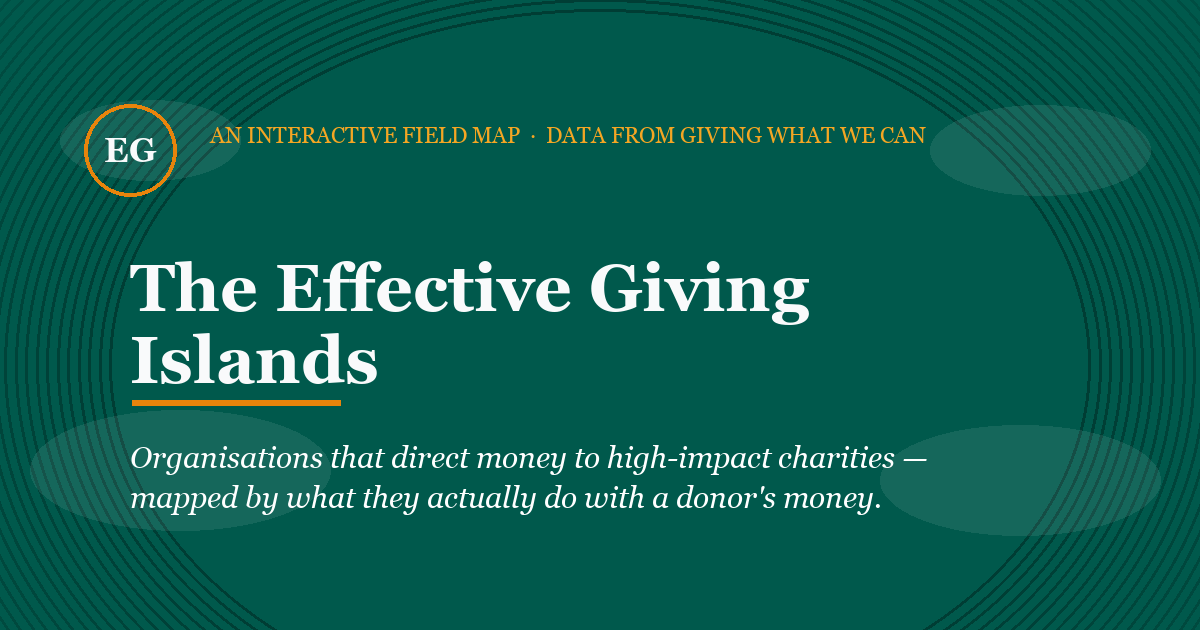
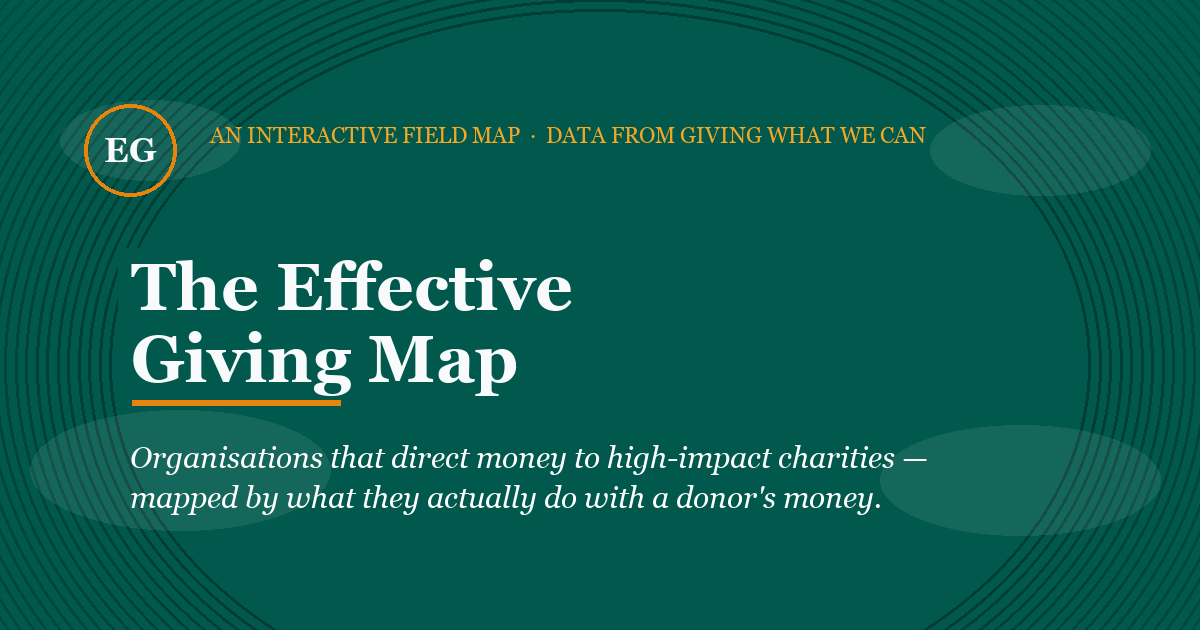
Rename to The Effective Giving Map; De Geefrevolutie; drop dead summaries
Rename the site, README, comments and social preview image from "The
Effective Giving Islands" to "The Effective Giving Map" and remove the
"v1 · Islands" tag. Rename Tien Procent Club to De Geefrevolutie, its
current public brand (tienprocent.club redirects to geefrevolutie.nl),
with the updated URL. Delete the unused Momentum and Afterfund summaries.
Show organisation counts in roman, not italic.

Changed region(s): [[0.0925, 0.3921, 0.6783, 0.6333]]

diff --git a/eg_blurbs.js b/eg_blurbs.js
@@ -49,7 +49,6 @@ const BLURBS={
 "Manifund":{fn:"charitable project-funding platform",blurb:"An open charitable funding platform and US public charity connecting high-impact project founders with donors. It runs open fundraising (a Kickstarter for nonprofits), regranting through domain-expert regrantors, and impact-certificate markets, moving grants in days. It emphasises transparency and backs speculative work in areas like AI safety and effective altruism."},
 "Maximum Impact":{fn:"effective-giving platform (Israel)",blurb:"An effective-giving initiative of Effective Altruism Israel helping Israeli donors direct money where it does the most good. It publishes cost-effectiveness research, recommends standout charities, and lets donors give through the JGive platform, passing contributions in full without commission. It operates under a registered Israeli nonprofit and offers tax-deductible giving."},
 "Mieux Donner":{fn:"effective-giving org (France)",blurb:"A French nonprofit association guiding individual and corporate donors toward high-impact charities backed by rigorous evidence. It takes no commission, relies on evaluators like GiveWell, Giving Green, and the EA Animal Welfare Fund, recommends cost-effective charities across global health, animal welfare, and climate, and promotes the lifetime 10% Pledge."},
-"Momentum":{fn:"nonprofit fundraising AI assistant",blurb:"Now redirects to Virtuous's Momentum product: an AI-powered fundraising assistant for nonprofit gift officers rather than a consumer donation app. It connects to a fundraiser's email and CRM, drafts personalised donor outreach, prioritises daily tasks, and auto-logs interactions. Nothing sends automatically; fundraisers review each message first."},
 "Navigation Fund":{fn:"high-risk philanthropic grantmaker",blurb:"A philanthropic grantmaker advancing bold solutions to urgent, underfunded problems, granting over $60M annually. Guided by practitioners, it backs high-risk, high-reward work across climate change, farm-animal welfare, criminal-justice reform, and open science. Beyond direct grants it uses regranting, advising, donor collaborations, and pooled funds to deploy capital quickly."},
 "One for the World":{fn:"1% Pledge nonprofit",blurb:"A US and UK nonprofit focused on ending preventable child death through effective giving. It asks donors — especially students and young professionals reached via university chapters — to take the 1% Pledge and donate one percent of income, channelling funds to a vetted portfolio delivering bednets, vaccines, nutrition, and clean water."},
 "Power for Democracies":{fn:"democracy-protection donor advisory",blurb:"A German non-profit research organisation and donor advisor that identifies highly effective civil-society initiatives protecting liberal democracy worldwide. It publishes a portfolio of high-impact giving opportunities and builds networks that channel donors' money toward the interventions it judges most cost-effective, rather than grantmaking directly."},
@@ -62,11 +61,10 @@ const BLURBS={
 "Serica":{fn:"philanthropic advisory (UHNW)",blurb:"A philanthropic advisory firm (Serica Advisory) with offices in Hong Kong, London, and Abuja, serving foundations and ultra-high-net-worth families by invitation. It specialises in Asian philanthropy alongside African health, gender, and education work, guiding donors across the full giving journey and connecting global capital with locally-led leadership."},
 "Survival and Flourishing Fund":{fn:"longtermist regranting fund",blurb:"A 'virtual fund' that organises and evaluates grant applications rather than holding an endowment, directing donors' money toward organisations working on humanity's long-term survival and flourishing. Funded largely by Jaan Tallinn, it uses a recurring algorithmic 'S-process' plus speculation grants to route roughly $150M since 2019 into AI safety, biosecurity, and x-risk work."},
 "The Life You Can Save":{fn:"charity evaluator & donor platform",blurb:"Founded in 2013 by philosopher Peter Singer, a nonprofit charity evaluator that researches and vets organisations fighting global poverty. It serves donors from beginners to experienced philanthropists, publishing ~two dozen recommended charities alongside themed cause funds and giving tools, channelling contributions to groups such as the Against Malaria Foundation and GiveDirectly."},
-"Tien Procent Club":{fn:"effective-giving community (Netherlands)",blurb:"The Ten Percent Club, a Dutch nonprofit promoting effective giving, encouraging people to donate a meaningful share of their income where it makes the greatest measurable difference. It runs the public-facing 'De Geefrevolutie' initiative, organising in-person community events across the Netherlands so donors can learn to give better together."},
+"De Geefrevolutie":{fn:"effective-giving community (Netherlands)",blurb:"A Dutch effective-giving movement ('The Giving Revolution') run by the nonprofit Tien Procent Club (Ten Percent Club). It encourages people to donate a meaningful share of their income where it makes the greatest measurable difference, organising in-person community events across the Netherlands so donors can learn to give better together."},
 "Ultra Philanthropy":{fn:"effective philanthropy advisory",blurb:"A philanthropic advisory firm serving major donors, family offices, and foundations, aiming to ensure the largest givers achieve the largest impact. Using an evidence-based, investment-style method and a proprietary 'UP Matrix' scoring effectiveness, scalability, evidence, and room for funding, it helps clients build data-driven giving portfolios."},
 "Więcej Dobra":{fn:"effective-giving platform (Poland)",blurb:"A Polish charitable foundation ('More Good') promoting evidence-based giving, letting Polish donors give online to charities vetted by evaluators such as GiveWell, GWWC, and ACE across global health, animal welfare, and climate. It covers payment fees so 100% of donations pass through, forwarding pooled funds to selected charities twice a year."},
 "Ziedo Efektīvi":{fn:"effective-giving platform (Latvia)",blurb:"A Latvian donation platform ('Donate Effectively') run by EA Latvia, helping local donors give to highly effective international charities while claiming Latvian income-tax refunds. It charges no commission, and recommends vetted organisations across human welfare, animal welfare, and catastrophic risks using research from GWWC and Coefficient Giving, processed under a GWWC agreement."},
-"Afterfund":{fn:"nonprofit endowment income platform",blurb:"A fundraising-technology platform helping nonprofits build endowments and generate continuous, recurring income rather than relying on one-off gifts. It lets organisations invest donated capital so the principal produces ongoing returns, and offers donation fee recovery. It supplies funding infrastructure to nonprofits rather than recommending or evaluating specific high-impact charities."},
 "Alpha Epsilon":{fn:"impact-focused regranting funder",blurb:"A grantmaking organisation aiming for the highest possible charitable impact by channelling money through specialised, expert-led external funds rather than giving directly. Each partner fund optimises for a specific cause and is led by field experts. It positions itself as a funder that allocates capital to the best problem-solvers via cause-specific charitable funds."},
 "Animal Advocacy Careers":{fn:"effective animal-advocacy careers",blurb:"A nonprofit helping talented people find high-impact jobs in the effective animal advocacy movement, and helping organisations recruit mission-aligned talent. It offers a job board, one-to-one career advising, an online course, and community resources, focusing on neglected farmed and wild-animal welfare, and also promotes effective giving through a donation pledge."},
 "Consultants for Impact":{fn:"consultant career-impact network",blurb:"A nonprofit (fiscally sponsored by Rethink Priorities) helping management consultants channel their skills toward pressing global problems. Serving current and former consultants from firms like McKinsey, BCG, and Bain, it offers free career advising, a high-impact job board, workplace groups, and effective-giving guidance across global health, biosecurity, AI safety, and animal welfare."},

diff --git a/index.html b/index.html
@@ -3,16 +3,16 @@
 <head>
 <meta charset="UTF-8">
 <meta name="viewport" content="width=device-width, initial-scale=1.0">
-<title>The Effective Giving Islands</title>
+<title>The Effective Giving Map</title>
 <meta name="description" content="An interactive map of 85 organisations that direct money to high-impact charities, grouped by what they actually do with a donor's money.">
 <link rel="icon" type="image/png" href="favicon.png">
 <meta property="og:type" content="website">
-<meta property="og:title" content="The Effective Giving Islands">
+<meta property="og:title" content="The Effective Giving Map">
 <meta property="og:description" content="Organisations that direct money to high-impact charities — mapped by what they actually do with a donor's money.">
 <meta property="og:image" content="https://experimenzo.github.io/effective-giving-map/og-image.png">
 <meta property="og:url" content="https://experimenzo.github.io/effective-giving-map/">
 <meta name="twitter:card" content="summary_large_image">
-<meta name="twitter:title" content="The Effective Giving Islands">
+<meta name="twitter:title" content="The Effective Giving Map">
 <meta name="twitter:description" content="Organisations that direct money to high-impact charities — mapped by what they actually do with a donor's money.">
 <meta name="twitter:image" content="https://experimenzo.github.io/effective-giving-map/og-image.png">
 <link rel="preconnect" href="https://fonts.googleapis.com"><link rel="preconnect" href="https://fonts.gstatic.com" crossorigin>
@@ -36,7 +36,6 @@ h1,h2,h3{font-family:'Cormorant Garamond',Georgia,serif}
 .seal{width:44px;height:44px;border:2px solid var(--gold);border-radius:50%;display:flex;align-items:center;justify-content:center;font-family:'Cormorant Garamond',serif;font-size:1.35rem;font-weight:700;color:#fff}
 .brand-txt h1{font-size:1.5rem;font-weight:600;line-height:1}
 .brand-txt p{font-size:.72rem;color:rgba(255,255,255,.62);font-style:italic;margin-top:3px}
-.vtag{font-family:'Cormorant Garamond',serif;font-size:.9rem;background:var(--gold);color:var(--navy-deep);padding:2px 12px;border-radius:20px;font-weight:600;letter-spacing:.5px}
 .controls{display:flex;align-items:center;gap:14px;margin-left:auto}
 .search-wrap{position:relative}
 .search-wrap input{font-family:inherit;font-size:.9rem;width:210px;padding:9px 14px 9px 34px;border:1px solid rgba(255,255,255,.25);border-radius:22px;background:rgba(255,255,255,.08);color:#fff;outline:none;transition:.2s}
@@ -67,7 +66,7 @@ body.filters-open .filterbar{display:flex}
 .chip.active{color:#fff;border-color:transparent;font-weight:500}
 .sel-select{font-family:inherit;font-size:.62rem;padding:4px 8px;border-radius:8px;border:1px solid var(--border);background:var(--white);color:var(--charcoal);cursor:pointer}
 .reset-btn{font-family:inherit;font-size:.62rem;color:var(--gold);background:none;border:none;cursor:pointer;text-decoration:underline;text-underline-offset:3px}
-.count-pill{font-size:.62rem;color:var(--muted);font-style:italic}
+.count-pill{font-size:.62rem;color:var(--muted)}
 .stage{position:fixed;top:74px;left:0;right:0;bottom:0;overflow:hidden}
 #mapWrap{position:absolute;inset:0}
 #map{width:100%;height:100%;display:block;cursor:grab;touch-action:none}
@@ -80,7 +79,7 @@ body.filters-open .filterbar{display:flex}
 .region-label{font-family:'Cormorant Garamond',serif;font-weight:600;font-style:italic;fill:var(--navy);text-anchor:middle;font-size:14px}
 .isle-pill{fill:var(--navy);opacity:.92}
 .isle-label{font-family:'Cormorant Garamond',serif;font-weight:600;fill:#fff;text-anchor:middle;letter-spacing:.5px}
-.isle-count{font-family:'Source Serif 4',serif;fill:var(--gold-light);text-anchor:middle;font-style:italic}
+.isle-count{font-family:'Source Serif 4',serif;fill:var(--gold-light);text-anchor:middle}
 .boat{opacity:.5;pointer-events:none}
 .secbadge{pointer-events:none}
 .town{cursor:pointer}
@@ -145,7 +144,7 @@ body.filters-open .filterbar{display:flex}
 .footer-note{position:fixed;bottom:0;left:0;right:0;z-index:11;text-align:center;font-size:.68rem;color:var(--muted);padding:5px;pointer-events:none;font-style:italic}
 ::-webkit-scrollbar{width:11px;height:11px}::-webkit-scrollbar-track{background:var(--cream)}::-webkit-scrollbar-thumb{background:var(--border);border-radius:6px;border:2px solid var(--cream)}::-webkit-scrollbar-thumb:hover{background:var(--navy-light)}
 @media(max-width:760px){
-  .brand-txt p{display:none}.brand-txt h1{font-size:1.12rem}.vtag{display:none}
+  .brand-txt p{display:none}.brand-txt h1{font-size:1.12rem}
   .topbar{gap:9px;padding:0 12px}.controls{gap:8px}
   .search-wrap input{width:84px}.search-wrap input:focus{width:130px}
   .ftbtn,.view-toggle button{padding:8px 11px;font-size:.88rem}
@@ -157,8 +156,7 @@ body.filters-open .filterbar{display:flex}
 <body>
 <div class="topbar">
   <div class="brand"><div class="seal">EG</div>
-    <div class="brand-txt"><h1>The Effective Giving Islands</h1><p>85 organisations, mapped by what they do with a donor's money</p></div>
-    <span class="vtag">v1 · Islands</span>
+    <div class="brand-txt"><h1>The Effective Giving Map</h1><p>85 organisations, mapped by what they do with a donor's money</p></div>
   </div>
   <div class="controls">
     <div class="search-wrap"><svg width="15" height="15" viewBox="0 0 24 24" fill="none" stroke="rgba(255,255,255,.7)" stroke-width="2"><circle cx="11" cy="11" r="7"/><path d="M21 21l-4.3-4.3"/></svg><input id="search" type="text" placeholder="Search organisations…" autocomplete="off"><div class="search-results" id="searchResults"></div></div>
@@ -184,7 +182,7 @@ body.filters-open .filterbar{display:flex}
 <div class="tooltip" id="tooltip"></div>
 <div class="drawer-scrim" id="scrim"></div>
 <aside class="drawer" id="drawer"><div class="drawer-head"><button class="drawer-close" id="drawerClose">&times;</button><div class="kicker" id="dKicker"></div><h2 id="dName"></h2></div><div class="drawer-body" id="dBody"></div></aside>
-<div class="footer-note">The Effective Giving Islands · built in the Effective Legacy visual system · Last updated 20 Nov 2026 · <a href="mailto:LorenzoPonceHK@gmail.com?subject=Effective%20Giving%20Map%20%E2%80%94%20suggestion" style="pointer-events:auto;color:var(--gold)">Suggest an org / report an error</a></div>
+<div class="footer-note">The Effective Giving Map · built in the Effective Legacy visual system · Last updated 20 Nov 2026 · <a href="mailto:LorenzoPonceHK@gmail.com?subject=Effective%20Giving%20Map%20%E2%80%94%20suggestion" style="pointer-events:auto;color:var(--gold)">Suggest an org / report an error</a></div>
 <script src="eg_data.js"></script>
 <script src="eg_blurbs.js"></script>
 <script>

diff --git a/eg_data.js b/eg_data.js
@@ -2,7 +2,7 @@
    Effective Giving Landscape — shared data
    85 organisations (from GWWC's "Active EG organisations" Notion
    database plus separately-researched additions). Loaded by
-   index.html (The Effective Giving Islands).
+   index.html (The Effective Giving Map).
 
    GROUPS holds each org's PRIMARY category — a relabelling of
    GWWC's own 8 "Primary type(s)" tags into functional groups
@@ -91,7 +91,7 @@ const ORGS=[
  {n:"Serica",u:"https://www.sericaadvisory.org/",t:["Philanthropy advisory"],usd:"<$1M",mkt:"Asia, Africa",c:["Humans"],y:2025,fte:"1-5"},
  {n:"Survival and Flourishing Fund",u:"https://survivalandflourishing.fund/",t:["Grantmaking foundation"],usd:"$50M—$100M",mkt:"Global",c:["X-risk","AI risks","Pandemics","Animals","Climate"],y:2019,fte:"6-10"},
  {n:"The Life You Can Save",u:"https://www.thelifeyoucansave.org/",t:["Broad fundraising","Charity evaluator"],usd:"$10M—$50M",mkt:"US",c:["Humans"],y:2013,fte:"11-20"},
- {n:"Tien Procent Club",u:"https://tienprocent.club/",t:["National fundraising"],usd:"<$1M",mkt:"Netherlands",c:["Humans","Other(s)"],y:2022,fte:"1-5"},
+ {n:"De Geefrevolutie",u:"https://www.geefrevolutie.nl/",t:["National fundraising"],usd:"<$1M",mkt:"Netherlands",c:["Humans","Other(s)"],y:2022,fte:"1-5"},
  {n:"Ultra Philanthropy",u:"https://www.ultraphilanthropy.org/",t:["Philanthropy advisory"],usd:"$1M—$10M",mkt:"US, UK (major donors)",c:["Humans","Animals","Other(s)"],y:2024,fte:"1-5"},
  {n:"Więcej Dobra",u:"https://wiecejdobra.pl/",t:["National fundraising"],usd:"<$1M",mkt:"Poland",c:["Humans","Animals","Climate"],y:2023,fte:"1-5"},
  {n:"Ziedo Efektīvi",u:"https://ziedoefektivi.lv/",t:["National fundraising"],usd:"<$1M",mkt:"Latvia",c:["Humans","Animals","X-risk"],y:2024,fte:"1-5"},
@@ -143,7 +143,7 @@ const GROUPS={
  "Ark Philanthropy":"Philanthropy advisory","Bedrock Philanthropy":"Philanthropy advisory","Ultra Philanthropy":"Philanthropy advisory","Serica":"Philanthropy advisory","Longview Philanthropy":"Philanthropy advisory","Founders Pledge":"Philanthropy advisory","Raising Impact":"Philanthropy advisory","Regeneration Group":"Philanthropy advisory","Elevate Philanthropy":"Philanthropy advisory","Effective Institutions Project":"Philanthropy advisory","Senterra Funders":"Philanthropy advisory",
  "Coefficient Giving":"Grantmakers & pooled funds","Effective Altruism Funds":"Grantmakers & pooled funds","Survival and Flourishing Fund":"Grantmakers & pooled funds","Navigation Fund":"Grantmakers & pooled funds","Future of Life Institute":"Grantmakers & pooled funds","Macroscopic Ventures":"Grantmakers & pooled funds","AI Risk Mitigation Fund":"Grantmakers & pooled funds","Center on Long-Term Risk":"Grantmakers & pooled funds","Sentinel Bio":"Grantmakers & pooled funds","Astralis Foundation":"Grantmakers & pooled funds","AI Safety Tactical Opportunities Fund":"Grantmakers & pooled funds","Alpha Epsilon":"Grantmakers & pooled funds","Renaissance Philanthropy":"Grantmakers & pooled funds","Livelihood Impact Fund":"Grantmakers & pooled funds",
  "Ambitious Impact":"Talent, careers & communities","Animal Advocacy Careers":"Talent, careers & communities","High Impact Professionals":"Talent, careers & communities","Consultants for Impact":"Talent, careers & communities",
- "EA for Christians":"Niche fundraising","Raise":"Niche fundraising","High-Impact Athletes":"Niche fundraising","Tien Procent Club":"Niche fundraising"
+ "EA for Christians":"Niche fundraising","Raise":"Niche fundraising","High-Impact Athletes":"Niche fundraising","De Geefrevolutie":"Niche fundraising"
 };
 
 /* Secondary categories — every function an org verifiably & prominently

diff --git a/README.md b/README.md
@@ -1,4 +1,4 @@
-# The Effective Giving Islands
+# The Effective Giving Map
 
 An interactive map of the effective-giving landscape — 85 organisations that help direct
 money to high-impact charities, grouped by what they actually do with a donor's money.
